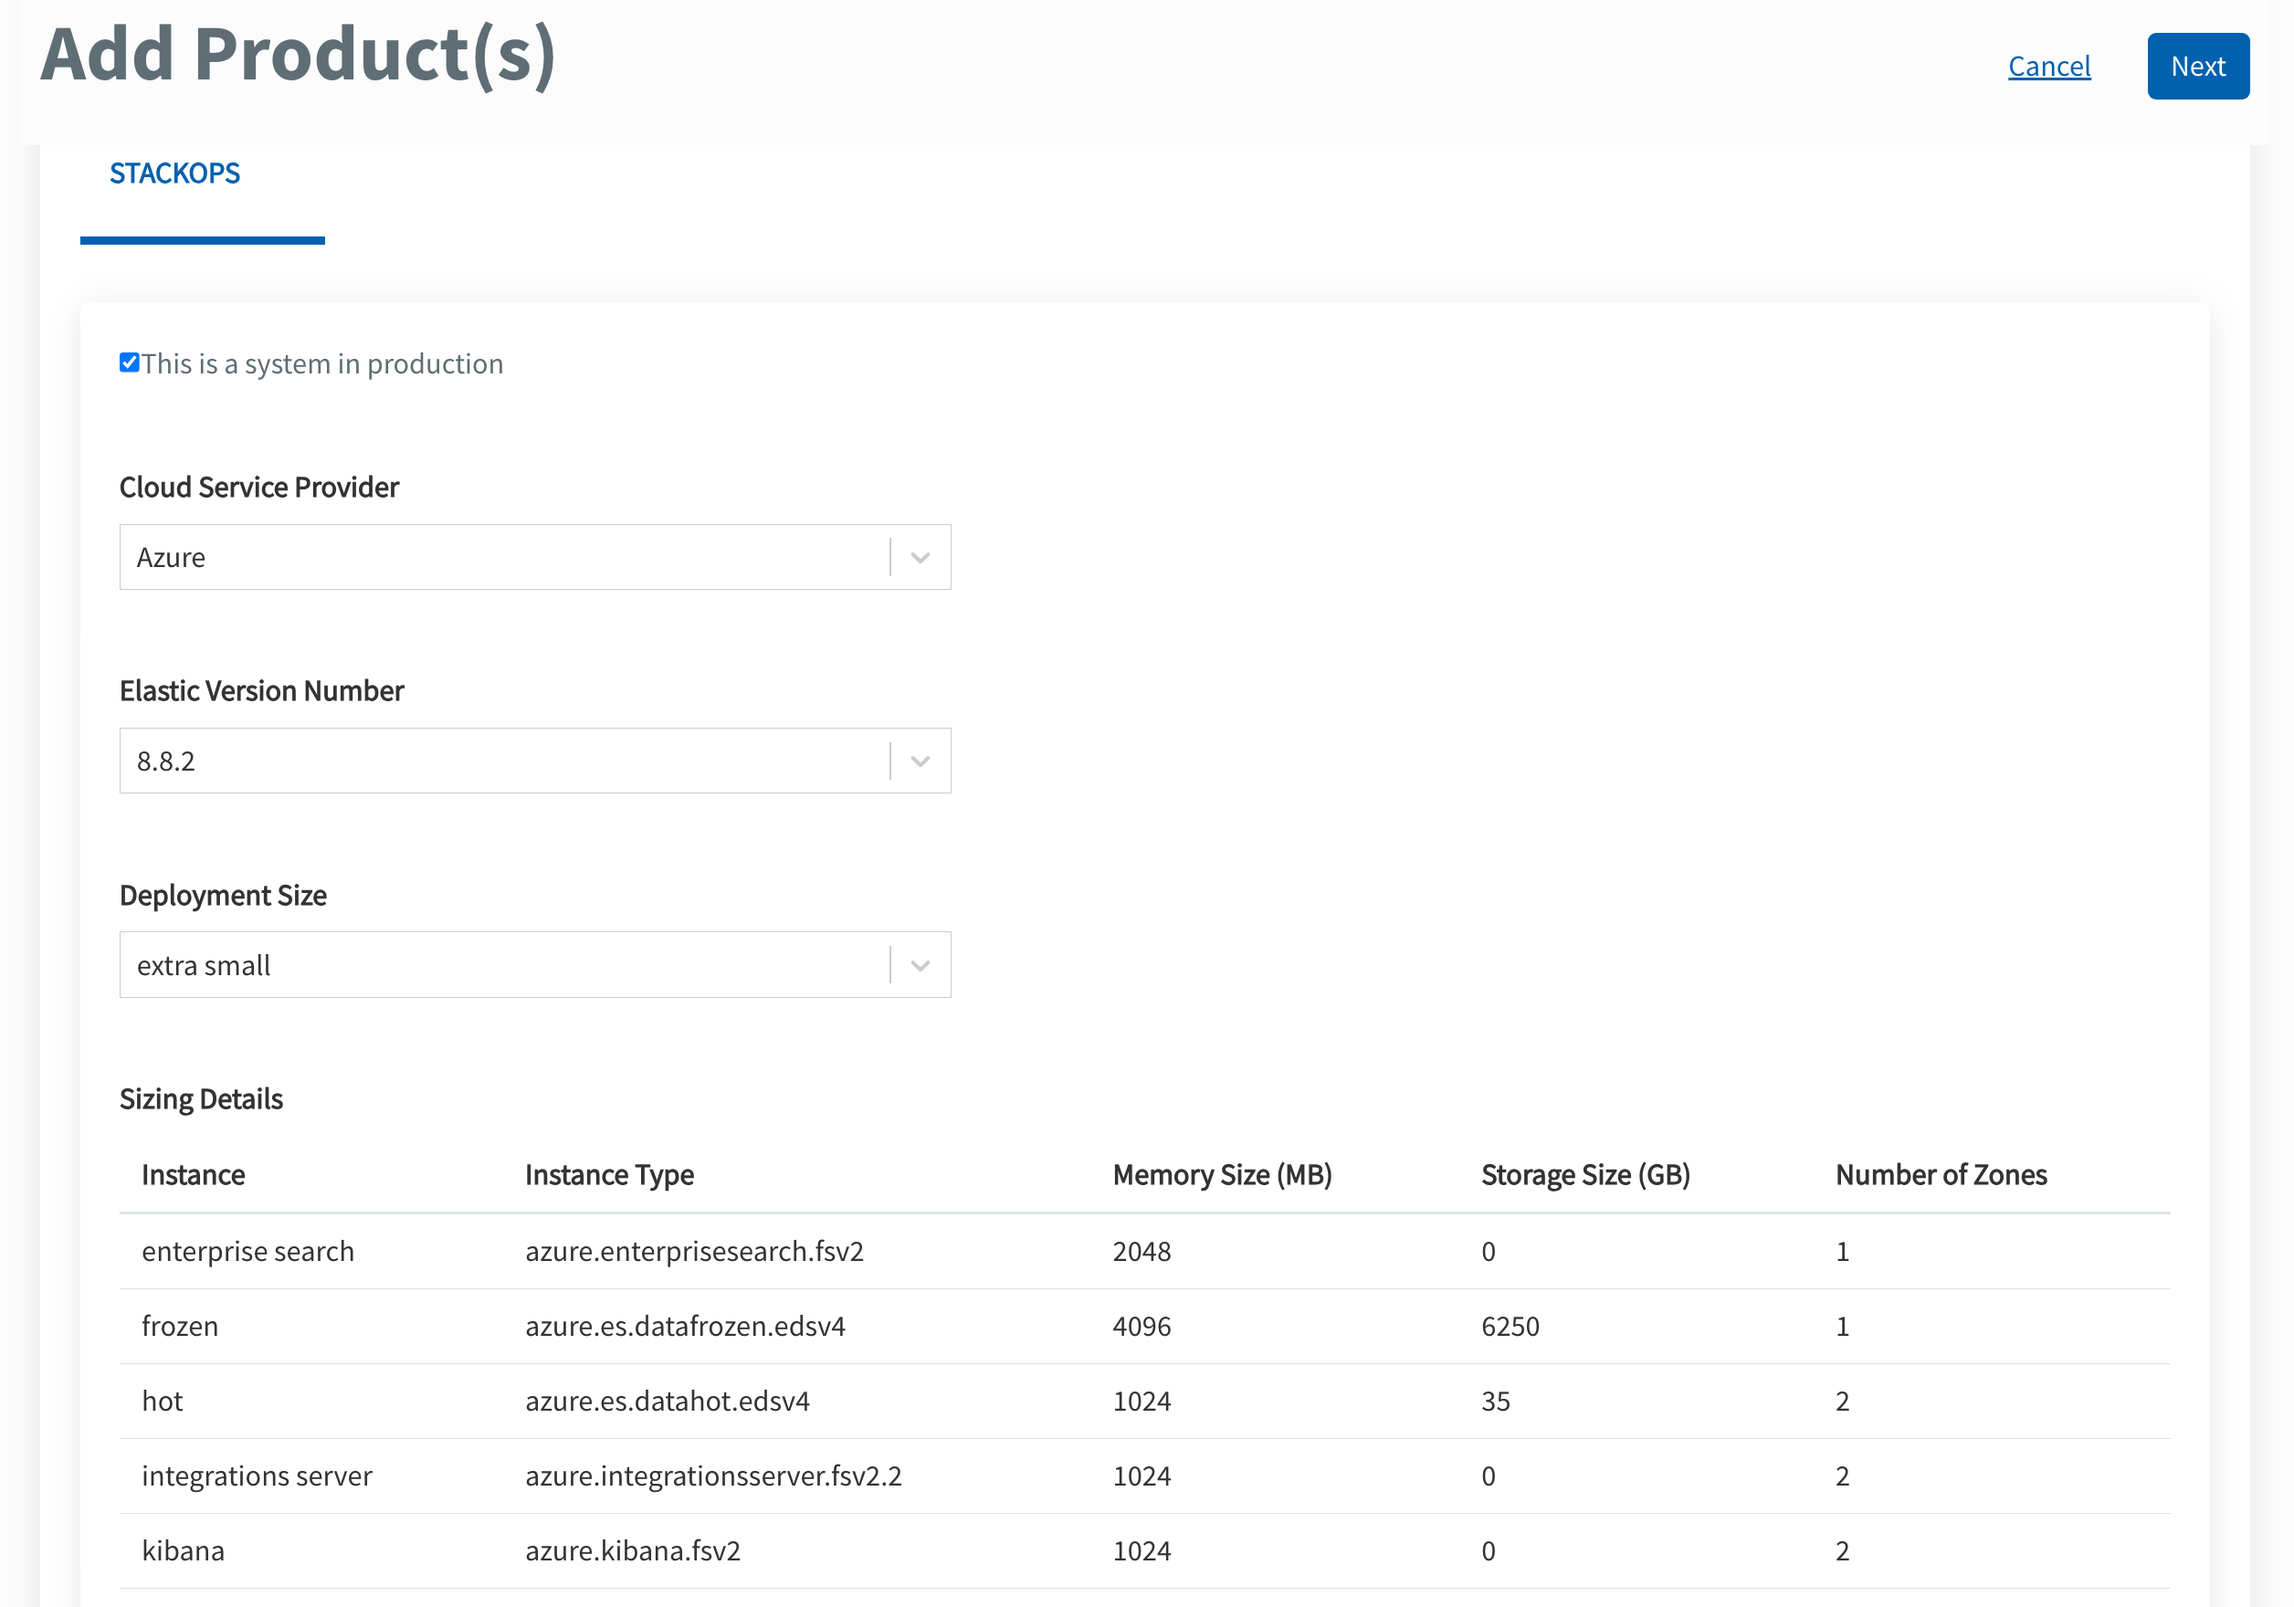
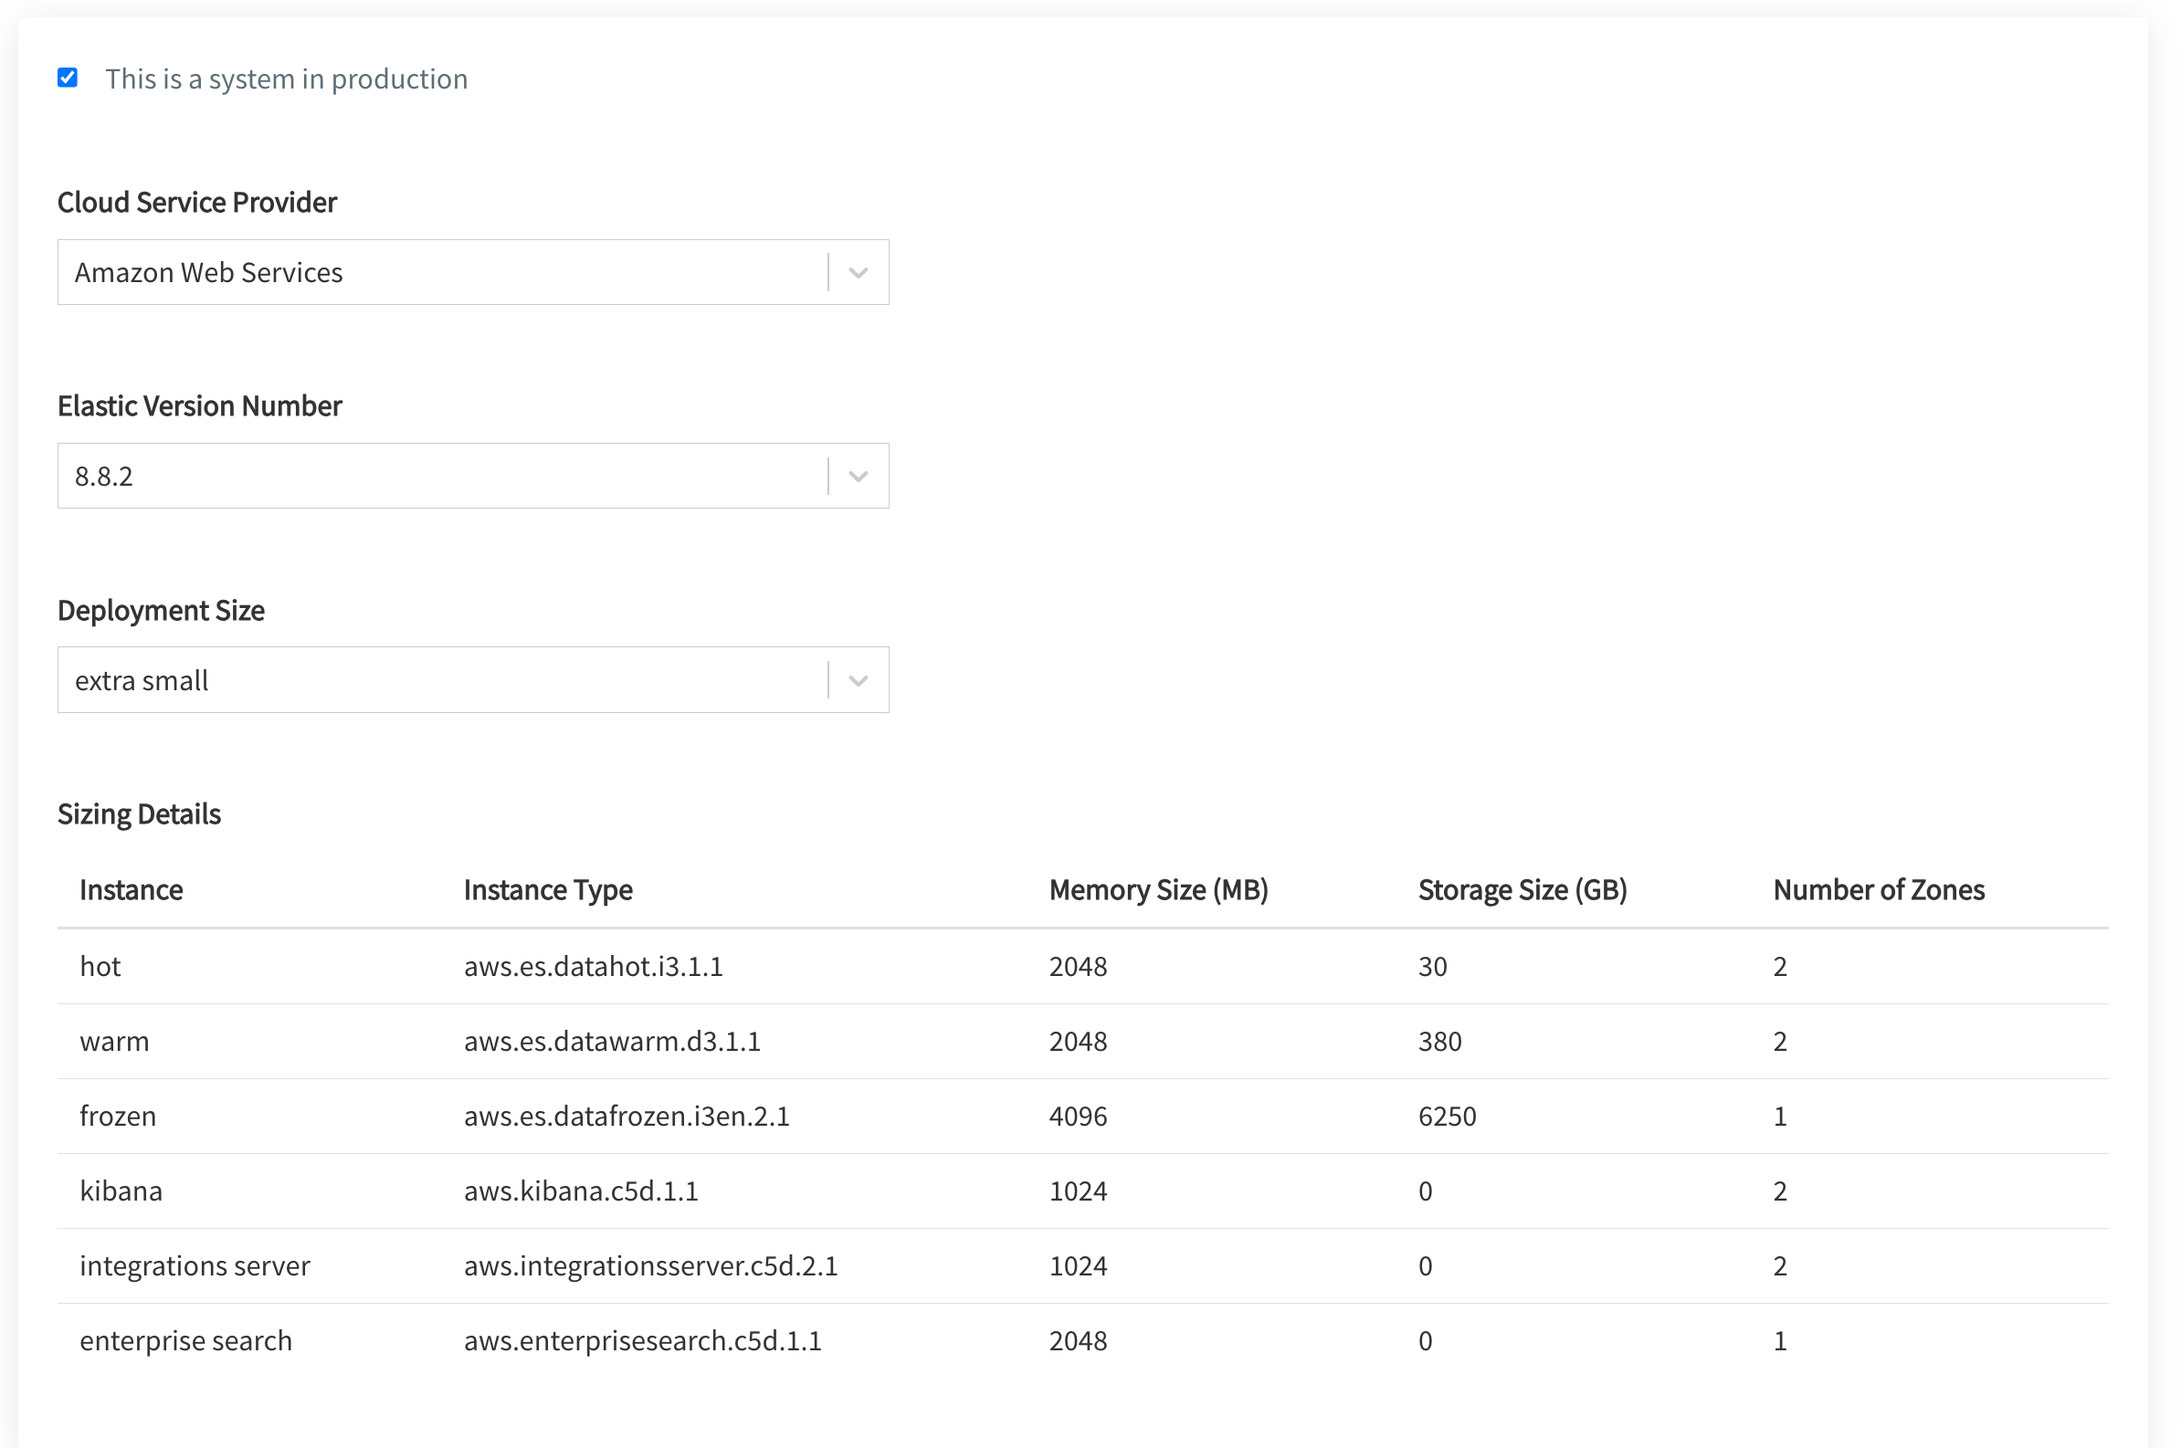
stackops-update

diff --git a/add-and-configure-products.md b/add-and-configure-products.md
@@ -15,12 +15,12 @@ Agencies need to add the subscribed SGTS Services required for the system(s) and
 <details>
   <summary>SHIP-HATS</summary>
 
-7. Click **SHIP-HATS**.
-8. Click **Next**.
+6. Click **SHIP-HATS**.
+7. Click **Next**.
 
 <kbd><img src="images/add-prod-next.png" alt="drawing" width="100%"/></kbd>
 
-9. Click **Submit**.
+8. Click **Submit**.
 
 <kbd><img src="images/add-prod-submit.png" alt="drawing" width="100%"/></kbd>
 
@@ -36,24 +36,31 @@ Go to [Access SHIP-HATS portal](https://docs.developer.tech.gov.sg/docs/ship-hat
 <details>
   <summary>StackOps</summary>
 
-7. Click **StackOps**.
-8. Specify the required information for your Elastic deployment.
+6. Click **StackOps**.
+7. Specify the required information for your Elastic deployment.
 
 <kbd><img src="images/stakops-add-prod.png" alt="drawing" width="100%"/></kbd>
 
-9. Click **Next**.
+| Field name | Description |
+| --- | --- |
+| **This is a system in production**	| Select this checkbox to indicate if this deployment is for a system that is currently in production. |
+| **Cloud Service Provider** | Select your cloud service provider for the deployment. |
+| **Elastic Version Number** | Depending on the selected cloud service provider, this dropdown lists all the supported versions of ElasticSearch. |
+| **Deployment Size**	| Depending on your daily data ingestion rate, choose the required size from the following options. The options are listed in alphabetical order. <br><br>**extra small**<br>**medium**<br>**small**<br>**large** |
+| **Sizing Details** | This section is displayed only when you specify the **Deployment Size**. When you select the required size, you can see the **Memory Size (MB)** and **Storage Size (GB)** that will be provisioned for this deployment under Sizing Details. It also displays the **Instance Type** and **Number of Zones** that are available for a particular **Instance**. |
 
-10. Verify if the information displayed is correct before clicking **Submit**. When the Elastic deployment is successfully provisioned, the subscription and billing admins are notified via email. This email has the high-level configuration details attached in the *.csv* format.
 
-11. Click **Submit**.
+8. Click **Next**.
+
+9. Verify if the information displayed is correct before clicking **Submit**. When the Elastic deployment is successfully provisioned, the subscription and billing admins are notified via email. This email has the high-level configuration details attached in the *.csv* format.
+
+10. Click **Submit**.
 
 <kbd><img src="images/submit-config.png" alt="drawing" width="100%"/></kbd>
 
-12. A success message is displayed. An email with an attached pdf file will be sent to you.
+11. A success message is displayed. An email with an attached pdf file will be sent to you.
 
 <kbd><img src="images/config-success.png" alt="drawing" width="100%"/></kbd>
 
-> **Note**: 	
-**Sizing details** is displayed only when you specify the deployment size. When you select the required size, you can see the memory size(MB) and storage size(GB) that will be provisioned for this deployment under **Sizing details**. It also displays the **Instance type** and **Number of zones** that are available for a particular instance.
 
   </details>
